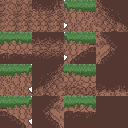
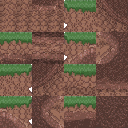
upgrade tree logic and create main menu logic

diff --git a/src/Game.cpp b/src/Game.cpp
@@ -222,7 +222,7 @@ Game::Game()
         mWheelSprite.setScale(2.0f, 2.0f);
     }
 
-    // --- UI TEXT CONFIGURATION ---
+    // --- UI TEXT CONFIGURATION (MAIN MENU) ---
     mMenuTitleText.setFont(mFont);
     mMenuTitleText.setString("TERRAFORGE");
     mMenuTitleText.setCharacterSize(120);
@@ -233,51 +233,49 @@ Game::Game()
     mMenuTitleText.setOrigin(titleBoundsMenu.width / 2.0f, titleBoundsMenu.height / 2.0f);
     mMenuTitleText.setPosition(1920 / 2.0f, 300.0f);
 
-    mMenuPlayText.setFont(mFont);
-    mMenuPlayText.setString("> PLAY <");
-    mMenuPlayText.setCharacterSize(60);
-    mMenuPlayText.setFillColor(sf::Color::White);
-    mMenuPlayText.setOutlineColor(sf::Color::Black);
-    mMenuPlayText.setOutlineThickness(3.0f);
-    sf::FloatRect playBounds = mMenuPlayText.getLocalBounds();
-    mMenuPlayText.setOrigin(playBounds.width / 2.0f, playBounds.height / 2.0f);
-    mMenuPlayText.setPosition(1920 / 2.0f, 600.0f);
+    // Esta lambda nos ahorra repetir 10 líneas de código por cada botón
+    auto createMenuButton = [&](sf::Text& textObj, const std::string& str, float yPos, int size = 60) {
+        textObj.setFont(mFont);
+        textObj.setString(str);
+        textObj.setCharacterSize(size);
+        textObj.setFillColor(sf::Color::White);
+        textObj.setOutlineColor(sf::Color::Black);
+        textObj.setOutlineThickness(3.0f);
+        sf::FloatRect bounds = textObj.getLocalBounds();
+        textObj.setOrigin(bounds.width / 2.0f, bounds.height / 2.0f);
+        textObj.setPosition(1920 / 2.0f, yPos);
+    };
 
-    mMenuExitText.setFont(mFont);
-    mMenuExitText.setString("> EXIT <");
-    mMenuExitText.setCharacterSize(60);
-    mMenuExitText.setFillColor(sf::Color::White);
-    mMenuExitText.setOutlineColor(sf::Color::Black);
-    mMenuExitText.setOutlineThickness(3.0f);
-    sf::FloatRect exitBounds = mMenuExitText.getLocalBounds();
-    mMenuExitText.setOrigin(exitBounds.width / 2.0f, exitBounds.height / 2.0f);
-    mMenuExitText.setPosition(1920 / 2.0f, 750.0f);
+    // --- Inicializamos los botones de la pantalla PRINCIPAL ---
+    createMenuButton(mMenuPlayText, "> JUGAR <", 550.0f);
+    createMenuButton(mMenuSettingsText, "AJUSTES", 650.0f, 40);
+    createMenuButton(mMenuCreditsText, "CREDITOS", 730.0f, 40);
+    createMenuButton(mMenuExitText, "SALIR", 810.0f, 40);
 
-    // Pause Menu Text
-    mPauseTitleText = mDeathTitleText;
-    mPauseTitleText.setString("PAUSED");
-    mPauseTitleText.setFillColor(sf::Color::White);
-    sf::FloatRect pauseBounds = mPauseTitleText.getLocalBounds();
-    mPauseTitleText.setOrigin(pauseBounds.width / 2.0f, pauseBounds.height / 2.0f);
+    // --- Inicializamos los botones del submenú de SELECCIÓN DE PARTIDA ---
+    // --- Inicializamos los botones del submenú de SELECCIÓN DE PARTIDA ---
+    createMenuButton(mMenuNewGameText, "> NUEVA PARTIDA <", 550.0f);
+    createMenuButton(mMenuLoadGameText, "> CARGAR PARTIDA <", 650.0f);
+    createMenuButton(mMenuBackText, "VOLVER", 800.0f, 40);
 
-    // --- CINEMATIC TEXTS ---
+    // ==========================================
+    // --- TEXTOS DE LA CINEMÁTICA DE INTRODUCCIÓN ---
+    // ==========================================
     mCinematicTextYear.setFont(mFont);
-    mCinematicTextYear.setString("Year 3808...");
+    mCinematicTextYear.setString("YEAR 3093...");
     mCinematicTextYear.setCharacterSize(60);
-    mCinematicTextYear.setFillColor(sf::Color(0, 255, 0, 0)); // Starts fully transparent
-
-    mCinematicTextPlanet.setFont(mFont);
-    mCinematicTextPlanet.setString("Planet XTR-0051");
-    mCinematicTextPlanet.setCharacterSize(80);
-    mCinematicTextPlanet.setFillColor(sf::Color(0, 255, 0, 0));
-
+    mCinematicTextYear.setFillColor(sf::Color(0, 255, 0, 0)); // Transparente al inicio
     sf::FloatRect yearBounds = mCinematicTextYear.getLocalBounds();
     mCinematicTextYear.setOrigin(yearBounds.width / 2.0f, yearBounds.height / 2.0f);
     mCinematicTextYear.setPosition(1920 / 2.0f, 1080 / 2.0f - 50.0f);
 
+    mCinematicTextPlanet.setFont(mFont);
+    mCinematicTextPlanet.setString("PLANET XPR-093");
+    mCinematicTextPlanet.setCharacterSize(80);
+    mCinematicTextPlanet.setFillColor(sf::Color(0, 255, 0, 0)); // Transparente al inicio
     sf::FloatRect planetBounds = mCinematicTextPlanet.getLocalBounds();
     mCinematicTextPlanet.setOrigin(planetBounds.width / 2.0f, planetBounds.height / 2.0f);
-    mCinematicTextPlanet.setPosition(1920 / 2.0f, 1080 / 2.0f + 50.0f);
+    mCinematicTextPlanet.setPosition(1920 / 2.0f, 1080 / 2.0f + 60.0f);
 
     // --- LOAD CAPSULE ASSET ---
     if (!mCapsuleTexture.loadFromFile("assets/Capsule.png")) {
@@ -350,18 +348,33 @@ void Game::processEvents() {
             sf::Vector2i mousePos = sf::Mouse::getPosition(mWindow);
             sf::Vector2f worldPos = mWindow.mapPixelToCoords(mousePos, mWindow.getDefaultView());
 
-            if (mMenuPlayText.getGlobalBounds().contains(worldPos)) {
-                // Initiate Cinematic Sequence
-                mGameState = GameState::IntroCinematic;
-                mCinematicTimer = 0.0f;
-                mCinematicPhase = 0;
-
-                // Spawn capsule high up and far left for a diagonal meteor crash
-                float finalX = 100 * mWorld.getTileSize();
-                mCapsulePos = sf::Vector2f(finalX - 3000.0f, -3000.0f);
-                mCameraPos = mCapsulePos; // Force camera to follow the capsule
+            if (mCurrentMenuScreen == MenuScreen::Main) {
+                if (mMenuPlayText.getGlobalBounds().contains(worldPos)) mCurrentMenuScreen = MenuScreen::PlaySelect; // Abre el submenú
+                else if (mMenuSettingsText.getGlobalBounds().contains(worldPos)) { std::cout << "Ajustes proximamente...\n"; }
+                else if (mMenuCreditsText.getGlobalBounds().contains(worldPos)) { std::cout << "Creditos proximamente...\n"; }
+                else if (mMenuExitText.getGlobalBounds().contains(worldPos)) mWindow.close();
             }
-            if (mMenuExitText.getGlobalBounds().contains(worldPos)) mWindow.close();
+            else if (mCurrentMenuScreen == MenuScreen::PlaySelect) {
+                if (mMenuNewGameText.getGlobalBounds().contains(worldPos)) {
+                    // INICIAR NUEVA PARTIDA (Cinemática)
+                    mGameState = GameState::IntroCinematic;
+                    mCinematicTimer = 0.0f;
+                    mCinematicPhase = 0;
+                    float finalX = 100 * mWorld.getTileSize();
+                    mCapsulePos = sf::Vector2f(finalX - 3000.0f, -3000.0f);
+                    mCameraPos = mCapsulePos; // La cámara sigue a la cápsula
+                }
+                else if (mMenuLoadGameText.getGlobalBounds().contains(worldPos)) {
+                    // CARGAR PARTIDA (Salta la cinemática directo a jugar)
+                    loadGame();
+                    // Forzamos a la cámara a ir donde está el jugador al cargar
+                    mCameraPos = mPlayer.getPosition();
+                    mGameState = GameState::Playing;
+                }
+                else if (mMenuBackText.getGlobalBounds().contains(worldPos)) {
+                    mCurrentMenuScreen = MenuScreen::Main; // Volver atrás
+                }
+            }
         }
 
         // --- PAUSE MENU INTERACTION ---
@@ -964,32 +977,49 @@ void Game::update(sf::Time dt) {
                             // Find the top
                             int topY = mMiningPos.y;
                             while (mWorld.getBlock(mMiningPos.x, topY - 1) == ItemID::WOOD) topY--;
-                            bool hasLeavesOnTop = (mWorld.getBlock(mMiningPos.x, topY - 1) == ItemID::LEAVES);
+
+                            // Comprobamos si hay hojas justo encima del tronco
+                            bool hasLeavesOnTop = (mWorld.getBlock(mMiningPos.x, topY - 1) == ItemID::LEAVES || mWorld.getBlock(mMiningPos.x, topY - 2) == ItemID::LEAVES);
 
                             if (restsOnNature && hasLeavesOnTop) isTree = true;
 
                             if (isTree) {
-                                // Break upwards recursively
+                                // Romper hacia arriba recursivamente por la columna central
                                 int currY = mMiningPos.y;
-                                while (mWorld.getBlock(mMiningPos.x, currY) == ItemID::WOOD || mWorld.getBlock(mMiningPos.x, currY) == ItemID::LEAVES) {
-                                    int currentBlock = mWorld.getBlock(mMiningPos.x, currY);
-                                    mWorld.setBlock(mMiningPos.x, currY, 0);
-                                    mWorld.spawnItem(mMiningPos.x, currY, currentBlock);
 
-                                    // Clear surrounding leaves
-                                    for(int ox = -2; ox <= 2; ++ox) {
-                                        for(int oy = -2; oy <= 2; ++oy) {
-                                            if(mWorld.getBlock(mMiningPos.x + ox, currY + oy) == ItemID::LEAVES) {
+                                while (mWorld.getBlock(mMiningPos.x, currY) == ItemID::WOOD || mWorld.getBlock(mMiningPos.x, currY) == ItemID::LEAVES) {
+
+                                    int currentBlock = mWorld.getBlock(mMiningPos.x, currY);
+
+                                    // 1. Destruimos el bloque central donde estamos pisando
+                                    mWorld.setBlock(mMiningPos.x, currY, 0);
+
+                                    if (currentBlock == ItemID::WOOD) {
+                                        mWorld.spawnItem(mMiningPos.x, currY, currentBlock);
+                                    }
+
+                                    // 2. Limpiar laterales (Radio ampliado para copas grandes)
+                                    for(int ox = -3; ox <= 3; ++ox) {
+
+                                        // ¡LA CLAVE! Ignoramos la columna central para no destruir nuestro puente hacia arriba
+                                        if (ox == 0) continue;
+
+                                        for(int oy = -3; oy <= 3; ++oy) {
+                                            int nid = mWorld.getBlock(mMiningPos.x + ox, currY + oy);
+
+                                            // Romper hojas atrapadas
+                                            if(nid == ItemID::LEAVES) {
                                                 mWorld.setBlock(mMiningPos.x + ox, currY + oy, 0);
-                                                // 15% sapling drop rate
+                                                // 15% de probabilidad de dropear hoja
                                                 if (rand() % 100 < 15) mWorld.spawnItem(mMiningPos.x + ox, currY + oy, ItemID::LEAVES);
                                             }
                                         }
                                     }
+                                    // 3. Damos el paso hacia arriba
                                     currY--;
                                 }
                             } else {
-                                // Just a placed wooden block
+                                // Solo era un bloque de madera puesto por el jugador (una pared de una casa, etc)
                                 mWorld.setBlock(mMiningPos.x, mMiningPos.y, 0);
                                 mWorld.spawnItem(mMiningPos.x, mMiningPos.y, brokenBlockID);
                             }
@@ -1302,8 +1332,18 @@ void Game::render() {
         mWindow.draw(mSkySprite);
 
         mWindow.draw(mMenuTitleText);
-        mWindow.draw(mMenuPlayText);
-        mWindow.draw(mMenuExitText);
+
+        // Dibuja los botones dependiendo de la pantalla actual
+        if (mCurrentMenuScreen == MenuScreen::Main) {
+            mWindow.draw(mMenuPlayText);
+            mWindow.draw(mMenuSettingsText);
+            mWindow.draw(mMenuCreditsText);
+            mWindow.draw(mMenuExitText);
+        } else if (mCurrentMenuScreen == MenuScreen::PlaySelect) {
+            mWindow.draw(mMenuNewGameText);
+            mWindow.draw(mMenuLoadGameText);
+            mWindow.draw(mMenuBackText);
+        }
     }
     else if (mGameState == GameState::IntroCinematic) {
         if (mCinematicPhase == 0 || mCinematicPhase == 1) {

diff --git a/src/World.cpp b/src/World.cpp
@@ -253,7 +253,7 @@ void World::generateChunk(int chunkX) {
     spawnVein(1, ItemID::TUNGSTEN, 130, 150, 40);
 
     // ---------------------------------------------------------
-    // STEP 3: SURFACE DECORATION (Trees)
+    // STEP 3: SURFACE DECORATIONS (Trees)
     // ---------------------------------------------------------
     for (int localX = 0; localX < CHUNK_WIDTH; ++localX) {
         int globalX = (chunkX * CHUNK_WIDTH) + localX;
@@ -261,31 +261,59 @@ void World::generateChunk(int chunkX) {
 
         int surfaceBlockID = newChunk[surfaceY * CHUNK_WIDTH + localX];
 
-        // Trees only grow on DIRT (ID 1)
-        if (surfaceBlockID == ItemID::DIRT && (std::abs(globalX * 437) % 100) < 10 && localX > 2 && localX < CHUNK_WIDTH - 3) {
-            int treeHeight = 5 + (rand() % 11);
-            int treeTopY = surfaceY - treeHeight;
+        // Mantenemos la comprobación base pero le damos margen (localX > 4)
+        if (surfaceBlockID == ItemID::DIRT && (std::abs(globalX * 437) % 100) < 10 && localX > 4 && localX < CHUNK_WIDTH - 5) {
 
-            // Generate Leaves (Canopy)
-            for (int lx = -2; lx <= 2; ++lx) {
-                for (int ly = -2; ly <= 1; ++ly) {
-                    // Shave corners to create an oval/rounded shape instead of a square
-                    if (std::abs(lx) == 2 && std::abs(ly) == 2) continue;
+            // 1. Altura del tronco (entre 6 y 14 bloques para que sea alto)
+        int trunkHeight = 6 + (rand() % 9);
+        int trunkTopY = surfaceY - trunkHeight;
 
-                    int leafY = treeTopY + ly;
-                    int leafX = localX + lx;
-                    if (leafY > 0 && leafY < WORLD_HEIGHT) {
-                        int idx = leafY * CHUNK_WIDTH + leafX;
-                        // Don't overwrite existing blocks with leaves
-                        if (newChunk[idx] == ItemID::AIR) newChunk[idx] = ItemID::LEAVES;
+        // 2. Generar el Tronco Principal (Madera recta)
+        for (int i = 1; i <= trunkHeight; ++i) {
+            int y = surfaceY - i;
+            if (y > 0) newChunk[y * CHUNK_WIDTH + localX] = ItemID::WOOD;
+        }
+
+        // --- Función auxiliar para dibujar "bolas" de hojas limpias ---
+        auto drawLeaves = [&](int cx, int cy, int radius) {
+            for (int lx = -radius; lx <= radius; ++lx) {
+                for (int ly = -radius; ly <= radius; ++ly) {
+                    // Cortar esquinas para hacer la forma de cruz gruesa/círculo
+                    if (std::abs(lx) == radius && std::abs(ly) == radius) continue;
+
+                    int px = cx + lx;
+                    int py = cy + ly;
+
+                    // Límites de seguridad
+                    if (py > 0 && py < WORLD_HEIGHT && px >= 0 && px < CHUNK_WIDTH) {
+                        int idx = py * CHUNK_WIDTH + px;
+                        // Solo colocar hojas si hay aire
+                        if (newChunk[idx] == ItemID::AIR) {
+                            newChunk[idx] = ItemID::LEAVES;
+                        }
                     }
                 }
             }
-            // Generate Trunk (Wood)
-            for (int i = 1; i <= treeHeight; ++i) {
-                int trunkY = surfaceY - i;
-                if (trunkY > 0) newChunk[trunkY * CHUNK_WIDTH + localX] = ItemID::WOOD;
+        };
+
+        // 3. Copa Principal (Posada JUSTO encima del tronco)
+        // Al restar 3, garantizamos que la parte inferior de la copa (que baja 2 bloques)
+        // quede exactamente 1 bloque por encima de trunkTopY.
+        int canopyCenterY = trunkTopY - 3;
+        drawLeaves(localX, canopyCenterY, 2);
+
+        // Le añadimos 3 bloquecitos extra justo arriba para redondear la copa
+        // El borde superior del círculo está a canopyCenterY - 2, así que ponemos esto en - 3.
+        int extraLeavesY = canopyCenterY - 3;
+        if (extraLeavesY > 0) {
+            for (int ox = -1; ox <= 1; ++ox) {
+                int topX = localX + ox;
+                if (topX >= 0 && topX < CHUNK_WIDTH) {
+                    int topIdx = extraLeavesY * CHUNK_WIDTH + topX;
+                    if (newChunk[topIdx] == ItemID::AIR) newChunk[topIdx] = ItemID::LEAVES;
+                }
             }
+        }
         }
     }
 
@@ -760,6 +788,10 @@ void World::loadTextures() {
     if (!mAutotileTextures[ItemID::DIRT].loadFromFile("assets/dirt_autotile.png")) {
         std::cerr << "Error: Faltan las texturas de autotiling de la Tierra" << std::endl;
     }
+
+    if (!mAutotileTextures[ItemID::LEAVES].loadFromFile("assets/leaves_autotile.png")) {
+        std::cerr << "Error: Faltan las texturas de autotiling de las Hojas" << std::endl;
+    }
 }
 
 // ==========================================
@@ -821,17 +853,17 @@ int World::getBitmask(int x, int y, int targetID) {
     int bottom = getBlock(x, y + 1);
     int left   = getBlock(x - 1, y);
 
-    // --- NUEVO: REGLAS DE FUSIÓN ENTRE DISTINTOS BLOQUES ---
+    // --- NUEVO: REGLAS DE FUSIÓN ENTRE DISTINTOS BLOQUES ----
     auto connects = [&](int neighbor) {
         // 1. Siempre nos conectamos perfectamente con nosotros mismos
         if (neighbor == targetID) return true;
 
-        // 2. Regla de la Tierra: Se fusiona con la Piedra, Bedrock y los Minerales
-        if (targetID == ItemID::DIRT) {
-            if (neighbor == ItemID::STONE || neighbor == ItemID::BEDROCK ||
-               (neighbor >= ItemID::COAL && neighbor <= ItemID::TUNGSTEN)) {
+        // 2. Regla de la Tierra y Hojas: Se fusionan con TODOS los bloques
+        if (targetID == ItemID::DIRT || targetID == ItemID::LEAVES) {
+            // Se fusionan con cualquier cosa que NO sea Aire y NO sea una Antorcha
+            if (neighbor != ItemID::AIR && neighbor != ItemID::TORCH) {
                 return true;
-               }
+            }
         }
 
         // (En el futuro, si haces Autotile para la Piedra, añadirás su regla aquí)

diff --git a/src/Game.h b/src/Game.h
@@ -324,10 +324,23 @@ private:
 
     GameState mGameState = GameState::MainMenu;
 
-    // Main Menu Texts
+    // --- MAIN MENU SYSTEM ---
+    enum class MenuScreen { Main, PlaySelect };
+    MenuScreen mCurrentMenuScreen = MenuScreen::Main;
+
     sf::Text mMenuTitleText;
+
+    // Textos del Menú Principal
     sf::Text mMenuPlayText;
+    sf::Text mMenuSettingsText;
+    sf::Text mMenuCreditsText;
     sf::Text mMenuExitText;
+
+    // Textos del Submenú Jugar
+    sf::Text mMenuNewGameText;
+    sf::Text mMenuLoadGameText;
+    sf::Text mMenuBackText;
+
     sf::Text mPauseTitleText;
 
     // --- NEW: CINEMATIC SYSTEM ---
